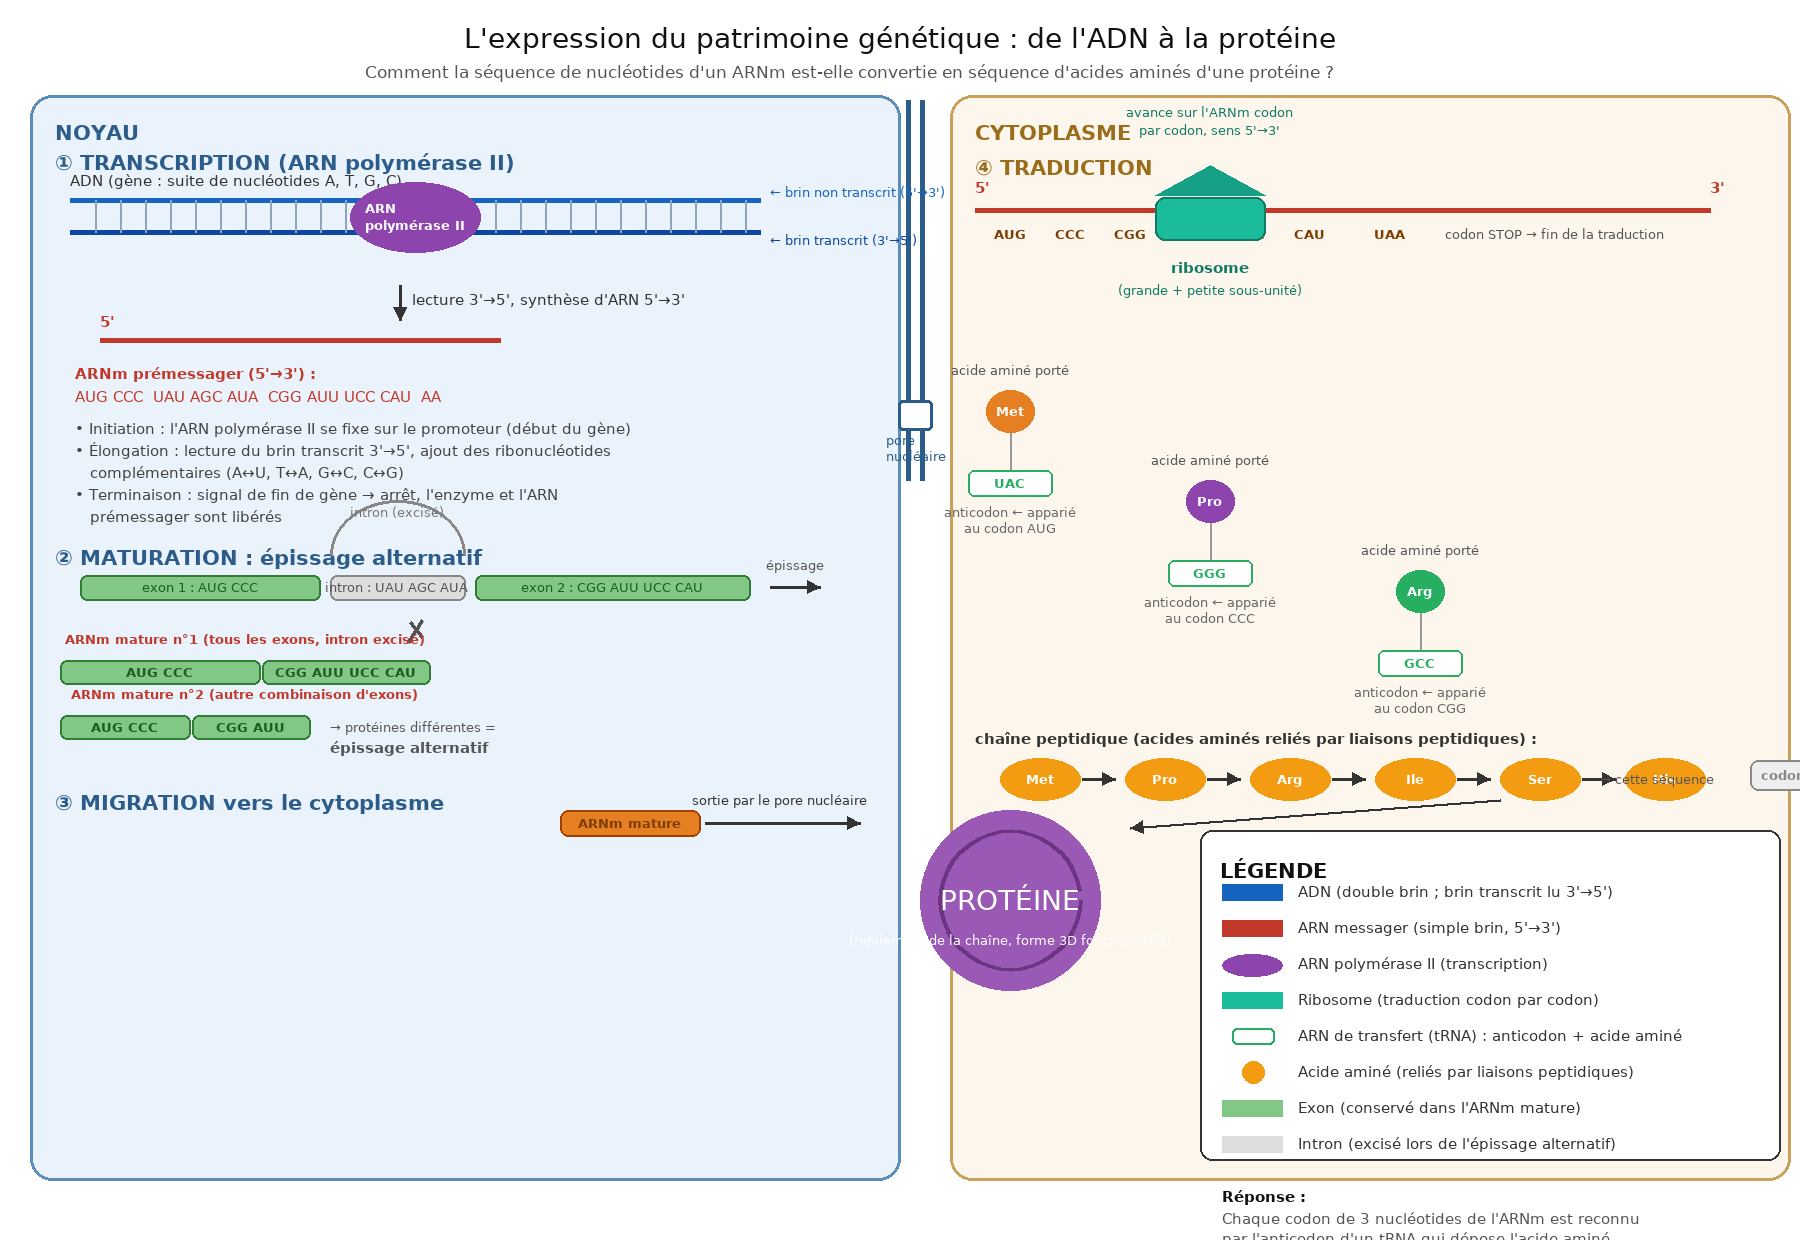
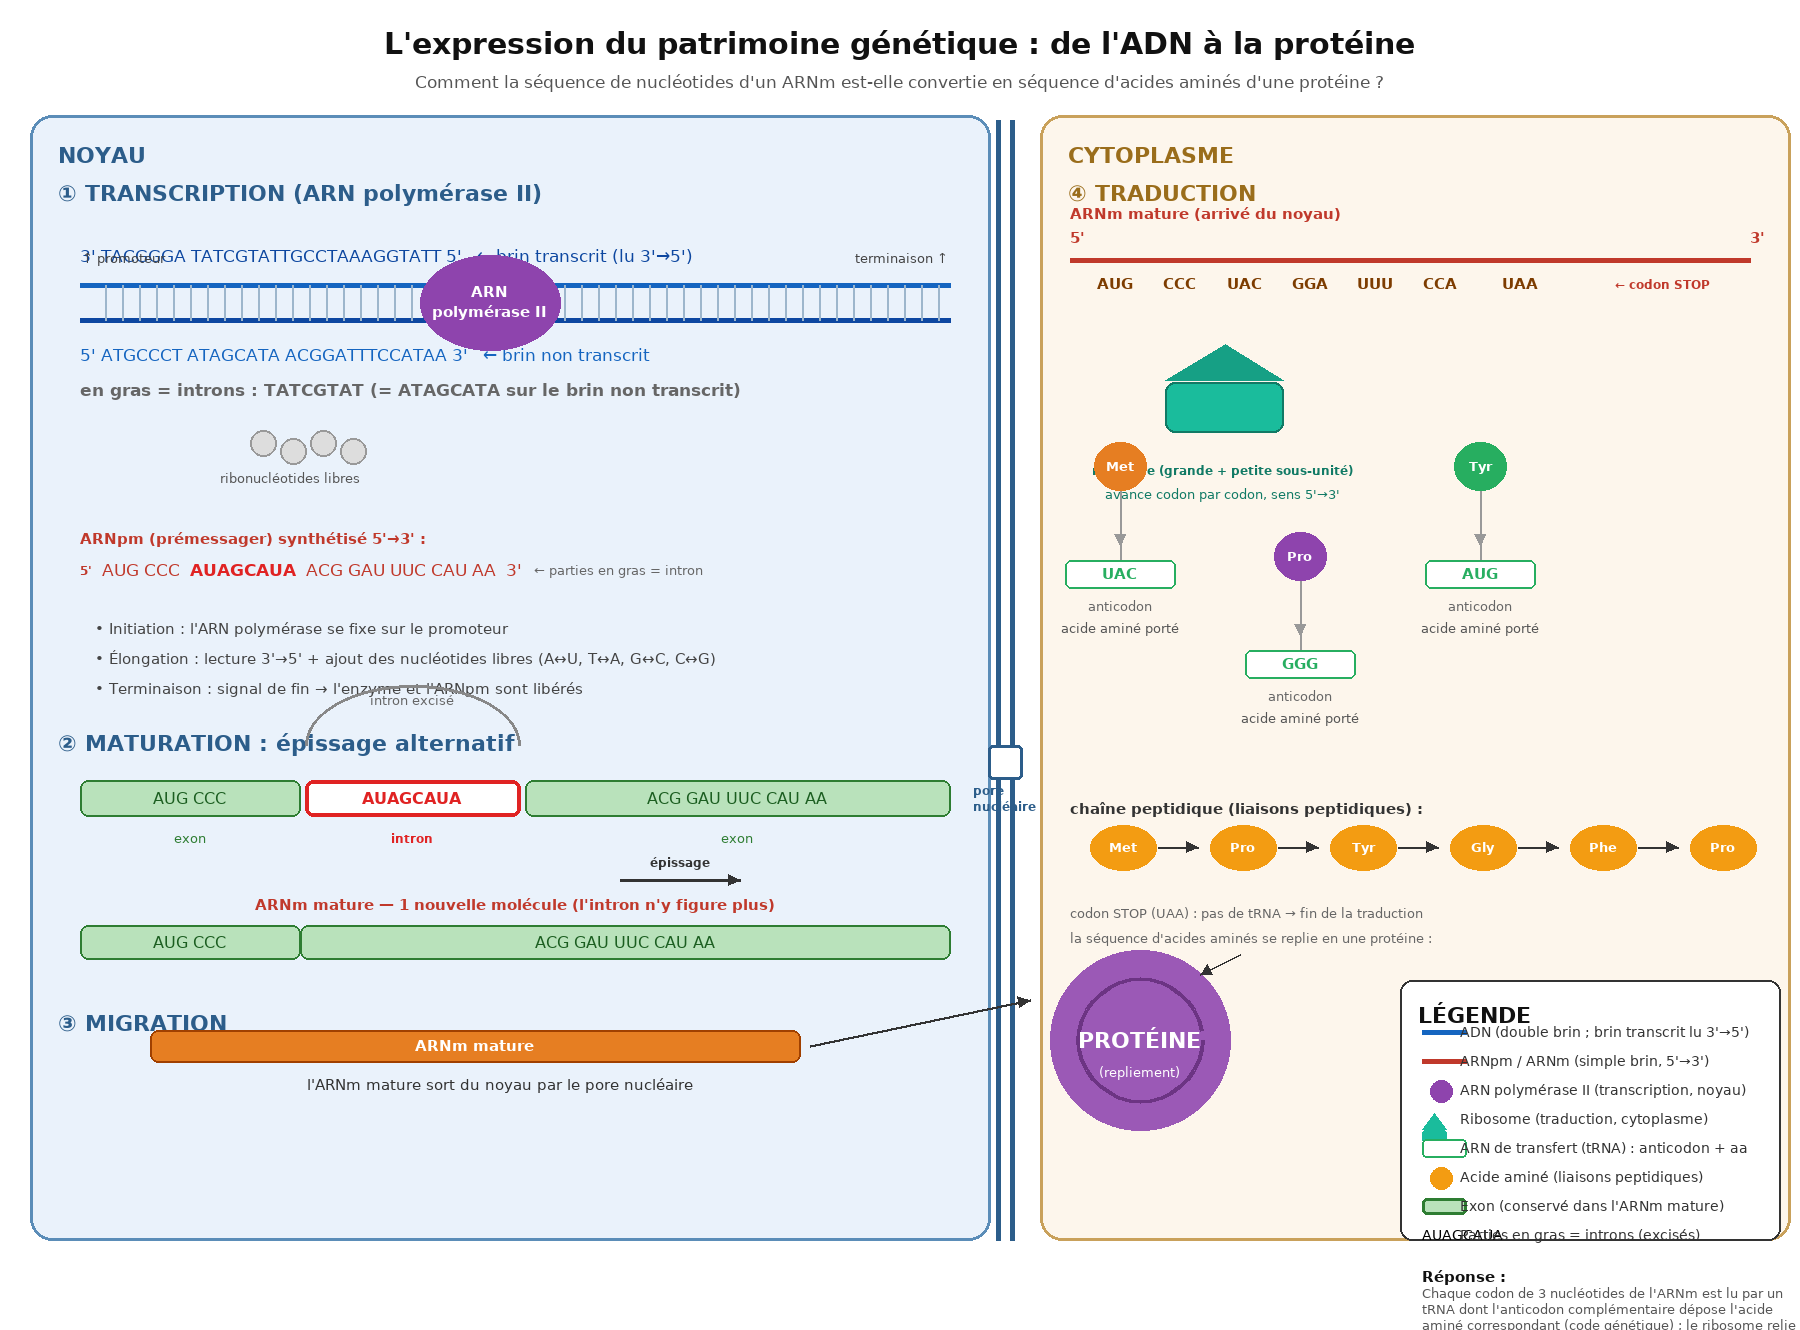
Corrections : introns en gras (ATAGCATA), séquences et protéine corrigées (Met-Pro-Tyr-Gly-Phe-Pro), mise en page nettoyée

diff --git a/draw_schema3.py b/draw_schema3.py
@@ -1,0 +1,244 @@
+#!/usr/bin/env python3
+from PIL import Image, ImageDraw, ImageFont
+import math
+
+F = "/tmp/fonts/dejavu-fonts-ttf-2.37/ttf/"
+def ft(size, bold=False):
+    return ImageFont.truetype(F + ("DejaVuSans-Bold.ttf" if bold else "DejaVuSans.ttf"), size)
+
+FONTS = {
+    "title": ft(30, True), "sub": ft(17),
+    "h": ft(22, True),
+    "b": ft(15), "bb": ft(15, True),
+    "seq": ft(16), "seqb": ft(16, True),
+    "seq2": ft(17), "seq2b": ft(17, True),
+    "s": ft(12), "sb": ft(12, True),
+    "aa": ft(13, True), "sm": ft(13), "leg": ft(14),
+}
+def f(n): return FONTS[n]
+
+W, H = 1800, 1330
+img = Image.new("RGB", (W, H), "#ffffff")
+d = ImageDraw.Draw(img)
+
+def txt(xy, s, font="b", fill="#333", anchor="mm"):
+    d.text(xy, s, font=f(font), fill=fill, anchor=anchor)
+
+def fleche(p1, p2, fill="#333", w=3):
+    d.line([p1, p2], fill=fill, width=w)
+    ang = math.atan2(p2[1]-p1[1], p2[0]-p1[0])
+    L = 13
+    a = (p2[0]-L*math.cos(ang-0.45), p2[1]-L*math.sin(ang-0.45))
+    b = (p2[0]-L*math.cos(ang+0.45), p2[1]-L*math.sin(ang+0.45))
+    d.polygon([p2, a, b], fill=fill)
+
+# ---------- TITRE ----------
+txt((900, 44), "L'expression du patrimoine génétique : de l'ADN à la protéine", "title", "#111")
+txt((900, 82), "Comment la séquence de nucléotides d'un ARNm est-elle convertie en séquence d'acides aminés d'une protéine ?", "sub", "#555")
+
+# ---------- COMPARTIMENTS ----------
+d.rounded_rectangle([30, 115, 990, 1240], radius=22, fill="#eaf2fb", outline="#5b8db8", width=3)
+txt((58, 142), "NOYAU", "h", "#2c5d8a", anchor="la")
+d.rounded_rectangle([1040, 115, 1790, 1240], radius=22, fill="#fdf6ec", outline="#c9a15b", width=3)
+txt((1068, 142), "CYTOPLASME", "h", "#9a6d1b", anchor="la")
+
+# enveloppe nucléaire + pore
+d.line([998, 120, 998, 1240], fill="#2c5d8a", width=5)
+d.line([1012, 120, 1012, 1240], fill="#2c5d8a", width=5)
+d.rounded_rectangle([988, 745, 1022, 779], radius=5, fill="#ffffff", outline="#2c5d8a", width=3)
+txt((1005, 798), "pore\nnucléaire", "sb", "#2c5d8a")
+
+# ================= ① TRANSCRIPTION =================
+txt((58, 180), "① TRANSCRIPTION (ARN polymérase II)", "h", "#2c5d8a", anchor="la")
+
+# ADN double brin
+Y1, Y2 = 285, 320
+d.line([80, Y1, 950, Y1], fill="#1565c0", width=5)
+d.line([80, Y2, 950, Y2], fill="#0d47a1", width=5)
+for x in range(105, 945, 17):
+    d.line([x, Y1, x, Y2], fill="#9db6cc", width=2)
+
+# séquences sous les lignes (pas de chevauchement)
+txt((80, 246), "3' TACGGGA TATCGTATTGCCTAAAGGTATT 5'   ← brin transcrit (lu 3'→5')", "seq2", "#0d47a0", anchor="la")
+txt((80, 345), "5' ATGCCCT ATAGCATA ACGGATTTCCATAA 3'   ← brin non transcrit", "seq2", "#1565c0", anchor="la")
+txt((80, 380), "en gras = introns : TATCGTAT (= ATAGCATA sur le brin non transcrit)", "seq2b", GRIS_ := "#666666", anchor="la")
+
+# promoteur / terminaison
+txt((82, 258), "↑ promoteur", "sm", "#444", anchor="lm")
+txt((948, 258), "terminaison ↑", "sm", "#444", anchor="rm")
+
+# ARN polymérase sur l'ADN
+d.ellipse([420, 255, 560, 350], fill="#8e44ad")
+txt((490, 292), "ARN", "bb", "white")
+txt((490, 312), "polymérase II", "bb", "white")
+
+# nucléotides libres
+for i, (x, y) in enumerate([(250, 430), (280, 438), (310, 430), (340, 438)]):
+    d.ellipse([x, y, x+26, y+26], fill="#dddddd", outline="#999", width=2)
+txt((290, 478), "ribonucléotides libres", "sm", "#555")
+
+# ARNpm néosynthétisé (5'→3'), intron EN GRAS
+txt((80, 530), "ARNpm (prémessager) synthétisé 5'→3' :", "bb", "#c0392b", anchor="la")
+cursor = [80]
+def mono(s, y, font, fill):
+    d.text((cursor[0], y), s, font=f(font), fill=fill, anchor="lm")
+    cursor[0] += d.textlength(s, font=f(font))
+txt((cursor[0], 570), "5'", "sb", "#c0392b", anchor="lm"); cursor[0] += 22
+mono("AUG CCC  ", 570, "seq2", "#c0392b")
+mono("AUAGCAUA", 570, "seq2b", "#e02323")       # intron EN GRAS
+mono("  ACG GAU UUC CAU AA  3'", 570, "seq2", "#c0392b")
+mono("   ← parties en gras = intron", 570, "sm", "#666666")
+
+# 3 phases
+for i, p in enumerate([
+    "Initiation : l'ARN polymérase se fixe sur le promoteur",
+    "Élongation : lecture 3'→5' + ajout des nucléotides libres (A↔U, T↔A, G↔C, C↔G)",
+    "Terminaison : signal de fin → l'enzyme et l'ARNpm sont libérés",
+]):
+    txt((95, 620 + 30*i), "• " + p, "b", "#444", anchor="la")
+
+# ================= ② MATURATION =================
+txt((58, 730), "② MATURATION : épissage alternatif", "h", "#2c5d8a", anchor="la")
+
+E1 = [80, 780, 300, 816]; E2 = [305, 780, 520, 816]; E3 = [525, 780, 950, 816]
+d.rounded_rectangle(E1, radius=8, fill="#b9e2bb", outline="#2e7d32", width=2)
+d.rounded_rectangle(E2, radius=8, fill="#ffffff", outline="#e02323", width=4)
+d.rounded_rectangle(E3, radius=8, fill="#b9e2bb", outline="#2e7d32", width=2)
+txt((190, 798), "AUG CCC", "seq", "#1b5e20")
+txt((412, 798), "AUAGCAUA", "seqb", "#e02323")
+txt((737, 798), "ACG GAU UUC CAU AA", "seq", "#1b5e20")
+d.arc([305, 685, 520, 805], start=180, end=360, fill="#888", width=3)
+txt((412, 700), "intron excisé", "sm", "#666666")
+txt((190, 838), "exon", "sm", "#2e7d32")
+txt((412, 838), "intron", "sb", "#e02323")
+txt((737, 838), "exon", "sm", "#2e7d32")
+
+fleche((620, 880), (740, 880))
+txt((680, 862), "épissage", "sb", "#333")
+
+# ARNm mature
+d.rounded_rectangle([80, 925, 300, 959], radius=8, fill="#b9e2bb", outline="#2e7d32", width=2)
+d.rounded_rectangle([300, 925, 950, 959], radius=8, fill="#b9e2bb", outline="#2e7d32", width=2)
+txt((190, 942), "AUG CCC", "seq", "#1b5e20")
+txt((625, 942), "ACG GAU UUC CAU AA", "seq", "#1b5e20")
+txt((515, 905), "ARNm mature — 1 nouvelle molécule (l'intron n'y figure plus)", "bb", "#c0392b", anchor="mm")
+
+# ================= ③ MIGRATION =================
+txt((58, 1010), "③ MIGRATION", "h", "#2c5d8a", anchor="la")
+d.rounded_rectangle([150, 1030, 800, 1062], radius=8, fill="#e67e22", outline="#a04000", width=2)
+txt((475, 1046), "ARNm mature", "bb", "#ffffff")
+fleche((810, 1046), (1030, 1000))
+txt((500, 1085), "l'ARNm mature sort du noyau par le pore nucléaire", "b", "#333")
+
+# ================= ④ TRADUCTION =================
+txt((1068, 180), "④ TRADUCTION", "h", "#9a6d1b", anchor="la")
+
+MY = 260
+d.line([1070, MY, 1750, MY], fill="#c0392b", width=5)
+txt((1070, 238), "5'", "bb", "#c0392b", anchor="lm")
+txt((1750, 238), "3'", "bb", "#c0392b", anchor="lm")
+txt((1070, 205), "ARNm mature (arrivé du noyau)", "bb", "#c0392b", anchor="la")
+codons = [("AUG", 1115), ("CCC", 1180), ("UAC", 1245), ("GGA", 1310), ("UUU", 1375), ("CCA", 1440), ("UAA", 1520)]
+for c, x in codons:
+    txt((x, MY + 24), c, "bb", "#7d3c00")
+txt((1615, MY + 24), "← codon STOP", "sb", "#c0392b", anchor="lm")
+
+# ribosome sur les 2e-3e codons
+RX, RY = 1165, 380
+d.polygon([(RX, RY), (RX+60, RY-36), (RX+118, RY)], fill="#16a085")
+d.rounded_rectangle([RX, RY+2, RX+118, RY+52], radius=10, fill="#1abc9c", outline="#117a65", width=2)
+txt((RX+58, 470), "ribosome (grande + petite sous-unité)", "sb", "#117a65")
+txt((RX+58, 494), "avance codon par codon, sens 5'→3'", "sm", "#117a65")
+
+# tRNA (anticodon + aa)
+def trna(x, anti, aa, colr, ybase):
+    d.line([x, ybase-70, x, ybase], fill="#999", width=2)
+    d.rounded_rectangle([x-55, ybase, x+55, ybase+28], radius=6, fill="#fff", outline="#27ae60", width=2)
+    txt((x, ybase+14), anti, "bb", "#27ae60")
+    txt((x, ybase+46), "anticodon", "sm", "#666666")
+    d.ellipse([x-26, ybase-118, x+26, ybase-70], fill=colr)
+    txt((x, ybase-94), aa, "aa", "#ffffff")
+    fleche((x, ybase-66), (x, ybase-14), "#999999", 2)
+
+trna(1120, "UAC", "Met", "#e67e22", 560)
+trna(1300, "GGG", "Pro", "#8e44ad", 650)
+trna(1480, "AUG", "Tyr", "#27ae60", 560)
+txt((1120, 628), "acide aminé porté", "sm", "#555555")
+txt((1300, 718), "acide aminé porté", "sm", "#555555")
+txt((1480, 628), "acide aminé porté", "sm", "#555555")
+
+# peptide
+txt((1070, 800), "chaîne peptidique (liaisons peptidiques) :", "bb", "#333333", anchor="la")
+aas = [("Met", 1090), ("Pro", 1210), ("Tyr", 1330), ("Gly", 1450), ("Phe", 1570), ("Pro", 1690)]
+for aa, x in aas:
+    d.ellipse([x, 825, x+66, 870], fill="#f39c12")
+    txt((x+33, 847), aa, "aa", "#ffffff")
+for i, (aa, x) in enumerate(aas[:-1]):
+    fleche((x+68, 847), (x+108, 847), "#333333", 2)
+
+txt((1070, 905), "codon STOP (UAA) : pas de tRNA → fin de la traduction", "sm", "#666666", anchor="la")
+txt((1070, 930), "la séquence d'acides aminés se replie en une protéine :", "sm", "#666666", anchor="la")
+
+# protéine repliée
+cx, cy2, r = 1140, 1040, 90
+d.ellipse([cx-r, cy2-r, cx+r, cy2+r], fill="#9b59b6")
+pts = [(cx+int(62*math.cos(math.radians(a))), cy2+int(62*math.sin(math.radians(a)))) for a in range(0, 360, 10)]
+for i in range(len(pts)-1):
+    d.line([pts[i], pts[i+1]], fill="#6c3483", width=4)
+txt((cx, cy2), "PROTÉINE", "h", "#ffffff")
+txt((cx, cy2+32), "(repliement)", "sm", "#ffffff")
+fleche((1240, 955), (1200, 975), "#333333", 2)
+
+# ---------- LEGENDE ----------
+lx, ly = 1400, 980
+d.rounded_rectangle([lx, ly, 1780, 1240], radius=12, fill="#ffffff", outline="#333333", width=2)
+txt((lx+18, ly+22), "LÉGENDE", "h", "#111111", anchor="la")
+yy = ly + 52
+def leg_line(colr, x, y, w=44):
+    d.line([x, y, x+w, y], fill=colr, width=5)
+def leg_ell(colr, x, y, w=22):
+    d.ellipse([x, y-10, x+w, y+12], fill=colr)
+def leg_box(colr, x, y, w=44, h=16, bw=3, fillr="#b9e2bb"):
+    d.rounded_rectangle([x, y-8, x+w, y+8], radius=5, fill=fillr, outline=colr, width=bw)
+def leg_trna(x, y):
+    d.rounded_rectangle([x, y-9, x+44, y+9], radius=4, fill="#fff", outline="#27ae60", width=2)
+def leg_dejavu_gras(x, y):
+    txt((x, y), "AUAGCAUA", "leg", "#000000", anchor="lm")
+    txt((x+118, y), "", "leg", "#000", anchor="lm")
+
+rows = [
+    ("line",  "#1565c0", "ADN (double brin ; brin transcrit lu 3'→5')"),
+    ("line",  "#c0392b", "ARNpm / ARNm (simple brin, 5'→3')"),
+    ("ellipse","#8e44ad", "ARN polymérase II (transcription, noyau)"),
+    ("rib",   "#1abc9c", "Ribosome (traduction, cytoplasme)"),
+    ("trna",  "#27ae60", "ARN de transfert (tRNA) : anticodon + aa"),
+    ("ellipse","#f39c12", "Acide aminé (liaisons peptidiques)"),
+    ("box",   "#2e7d32", "Exon (conservé dans l'ARNm mature)"),
+    ("gras",  None,      "Parties en gras = introns (excisés)"),
+]
+for kind, colr, label in rows:
+    if kind == "line": leg_line(colr, lx+22, yy)
+    elif kind == "ellipse": leg_ell(colr, lx+30, yy)
+    elif kind == "rib":
+        d.polygon([(lx+22, yy+10), (lx+34, yy-6), (lx+46, yy+10)], fill=colr)
+        d.rounded_rectangle([lx+22, yy+11, lx+46, yy+23], radius=3, fill=colr)
+    elif kind == "trna": leg_trna(lx+22, yy)
+    elif kind == "box": leg_box(colr, lx+22, yy)
+    elif kind == "gras": leg_dejavu_gras(lx+22, yy)
+    txt((lx+60, yy), label, "leg", "#333333", anchor="lm")
+    yy += 29
+
+yy += 4
+txt((lx+22, yy), "Réponse :", "bb", "#111111", anchor="la"); yy += 17
+for line in [
+    "Chaque codon de 3 nucléotides de l'ARNm est lu par un",
+    "tRNA dont l'anticodon complémentaire dépose l'acide",
+    "aminé correspondant (code génétique) ; le ribosome relie",
+    "les acides aminés entre eux par des liaisons peptidiques :",
+    "la séquence de nucléotides devient une séquence",
+    "d'acides aminés, c'est-à-dire une protéine.",
+]:
+    txt((lx+22, yy), line, "sm", "#555555", anchor="la"); yy += 16
+
+img.save("/workspace/schema_bilan_expression_genetique.png")
+print("saved")
